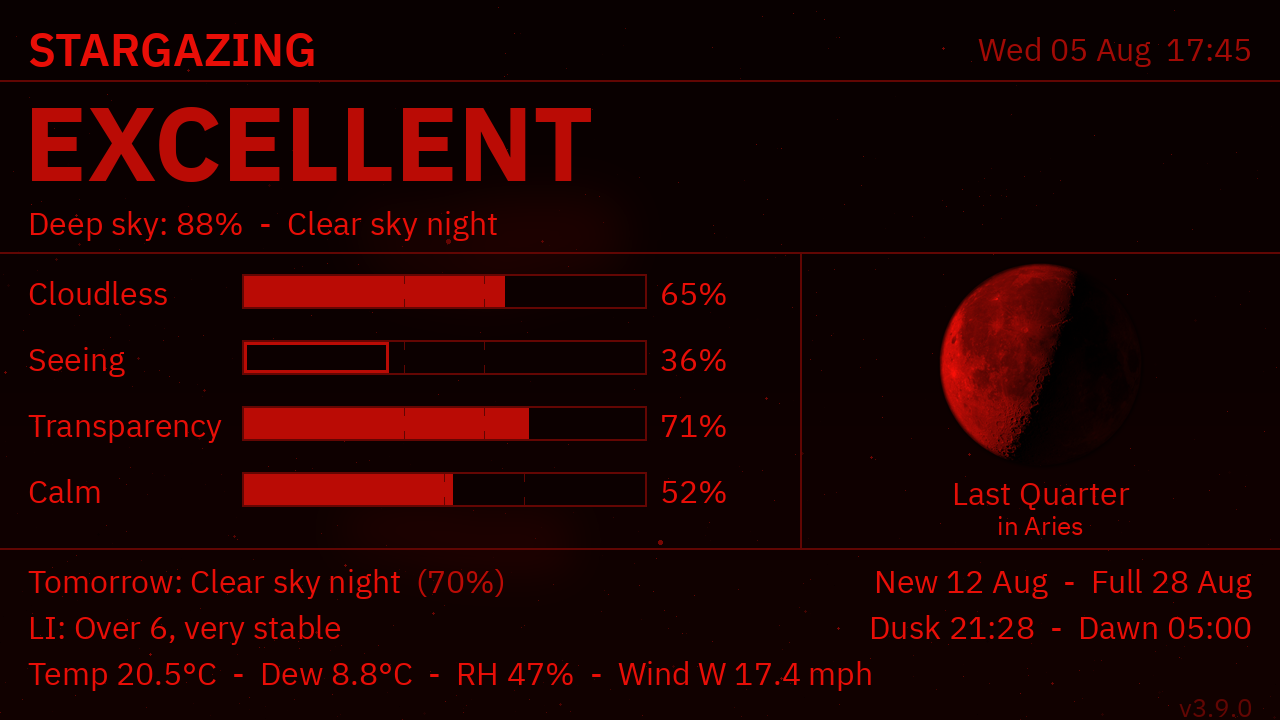
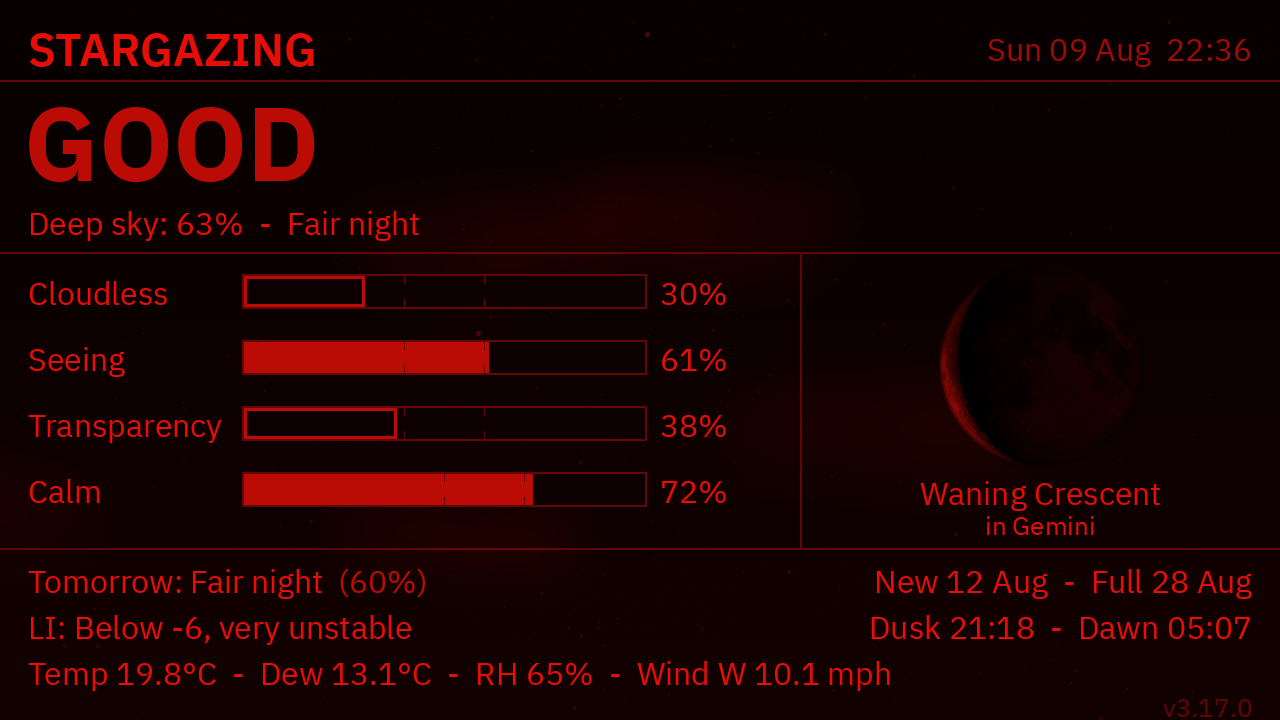
Retake the night-mode screenshot from the 3.17.0 build
The last capture was 5 August against a build that predated the projection,
twinkle and meteor work, and the panel it documents no longer looks like that.

Its alt text named Seeing as the bar reading hollow. Which bars fall below their
warning marks is weather, so it is now described by the relationship the image
shows rather than by naming one, the same treatment the other two captions got
this morning after that exact claim went stale twice in seven minutes.

diff --git a/README.md b/README.md
@@ -48,7 +48,7 @@ The page-2 timeline only appears once UpTonight has run, and the page leaves the
 
 **Night mode — the same page after dark**
 
-![The conditions page in red night mode: the identical layout rendered entirely in shades of red on black, including the photograph of the Moon. The verdict, the condition bars, the percentages and the footer are all still legible, and the hollow Seeing bar still reads as hollow; only hue has gone.](screenshots/night-red.png)
+![The conditions page in red night mode: the identical layout rendered entirely in shades of red on black, including the photograph of the Moon. The verdict, the condition bars, the percentages and the footer are all still legible, and the bars that fall below their warning marks still read as hollow outlines against the filled ones; only hue has gone.](screenshots/night-red.png)
 
 Between real dusk and dawn — not on a clock schedule — the finished frame is put through a red filter, because long wavelengths leave dark-adapted vision alone. The whole frame is filtered rather than the palette swapped, which keeps the lunar photograph and the deep-sky cutouts from glowing white.
 
